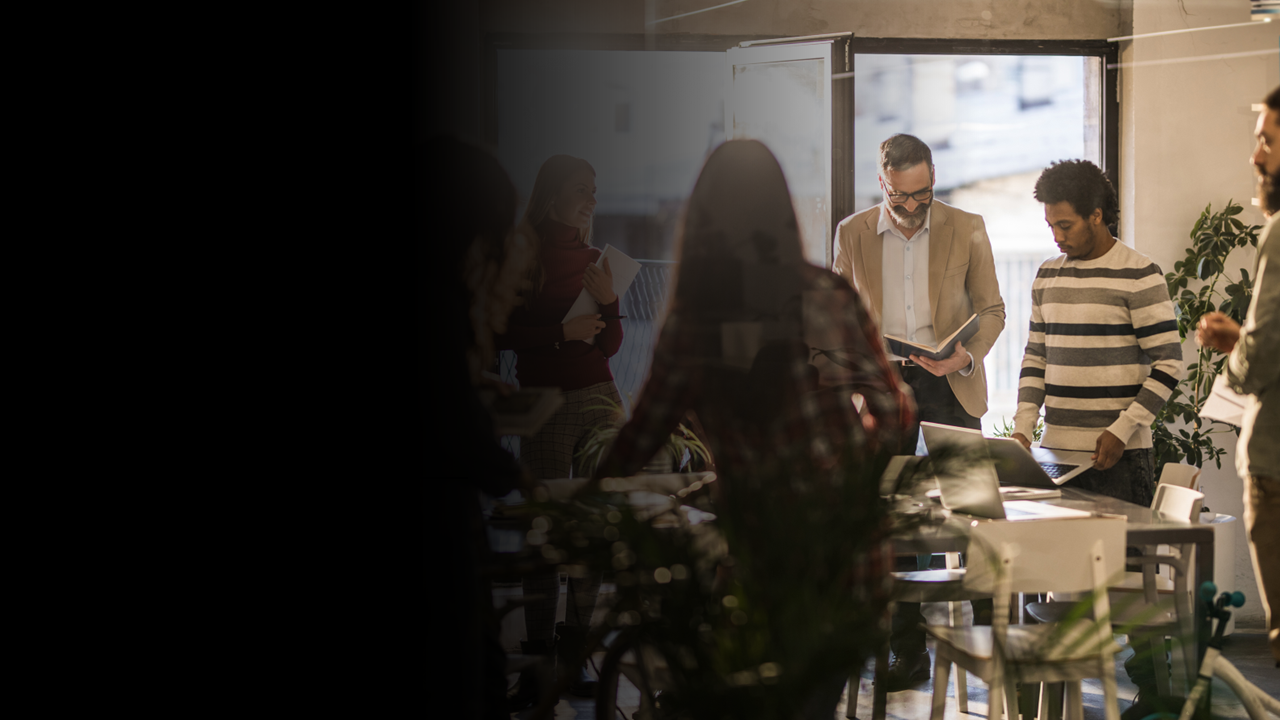
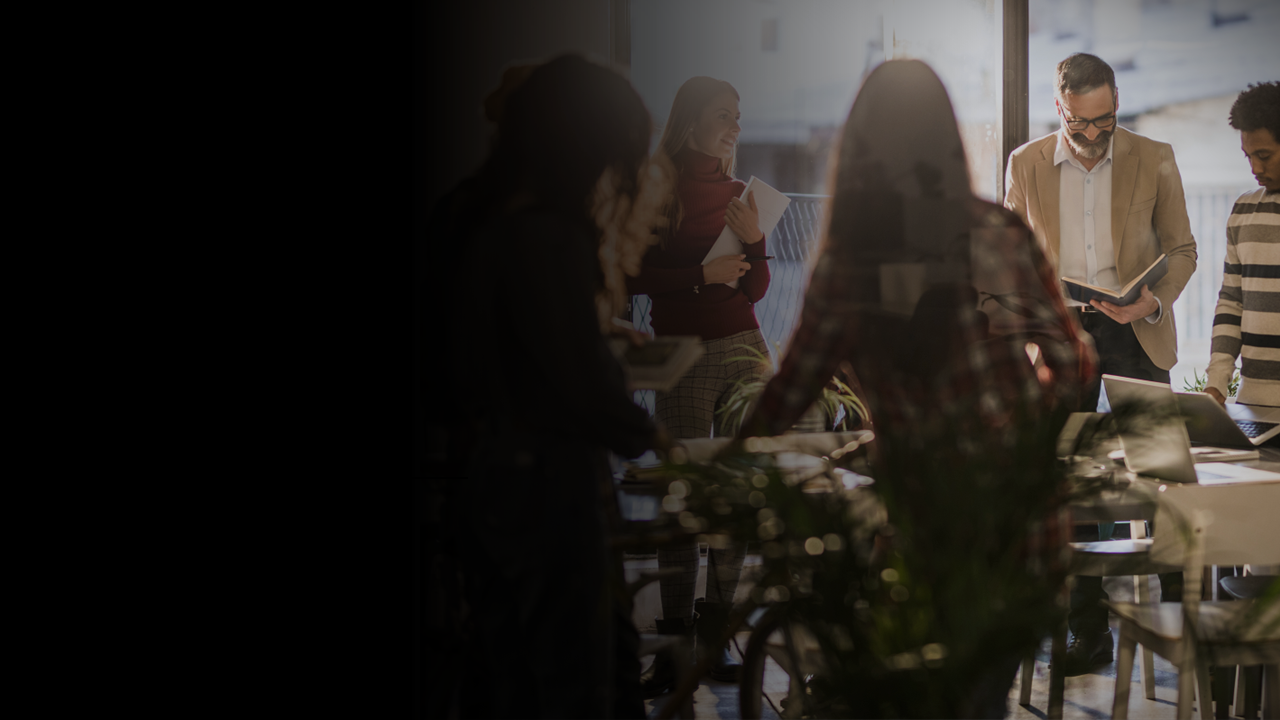
styled images

diff --git a/src/Projects.css b/src/Projects.css
@@ -16,7 +16,7 @@
   right: 0;
   bottom: 0;
   background-size: 100%;
-  opacity: 0.6;
+  opacity: 0.5;
   transition: transform 0.3s ease-in-out; /* Add transition property */
 }
 
@@ -93,7 +93,7 @@
   bottom: 0;
   left: 0;
   right: 0;
-  padding: 12px;
+  padding: 16px;
   border-radius: 0 0 5px 5px;
   display: flex;
   flex-direction: column;
@@ -116,12 +116,12 @@
   position: absolute;
   bottom: 0;
   right: 0;
-  margin: 12px;
+  margin: 16px;
   display: flex;
   flex-direction: row;
   justify-content: center;
   align-items: center;
-  width: 100px;
+  width: 48px;
   color: #eeeeee;
   text-decoration: none;
   padding: 1%;
@@ -130,10 +130,10 @@
 }
 
 .caret-icon {
-  margin-top: 5px;
-  margin-left: 4px;
-  height: 16px;
-  width: 16px;
+  /* margin-top: 5px;
+  margin-left: 4px; */
+  height: 24px;
+  width: 24px;
 }
 
 .cta {

diff --git a/src/pages/Projects.jsx b/src/pages/Projects.jsx
@@ -137,7 +137,7 @@ const Component = ({ projectsGroup1, projectsGroup2, projectsGroup3 }) => {
           backgroundImage: `url(${background3})`,
           backgroundSize: "cover",
           backgroundPosition: "center",
-          opacity: ".6",
+          opacity: ".5",
         }}>
        </div>
       <div style={{ paddingBottom: "1%" }}></div>

diff --git a/src/components/Project.jsx b/src/components/Project.jsx
@@ -14,7 +14,6 @@ function Project({ project }) {
    
       <a href={link} className="project-link" target="_blank" rel="noopener noreferrer">
         <div className="cta">
-        Explore
         <img src={caret} alt="caret" className="caret-icon" />
         </div>
       </a>
